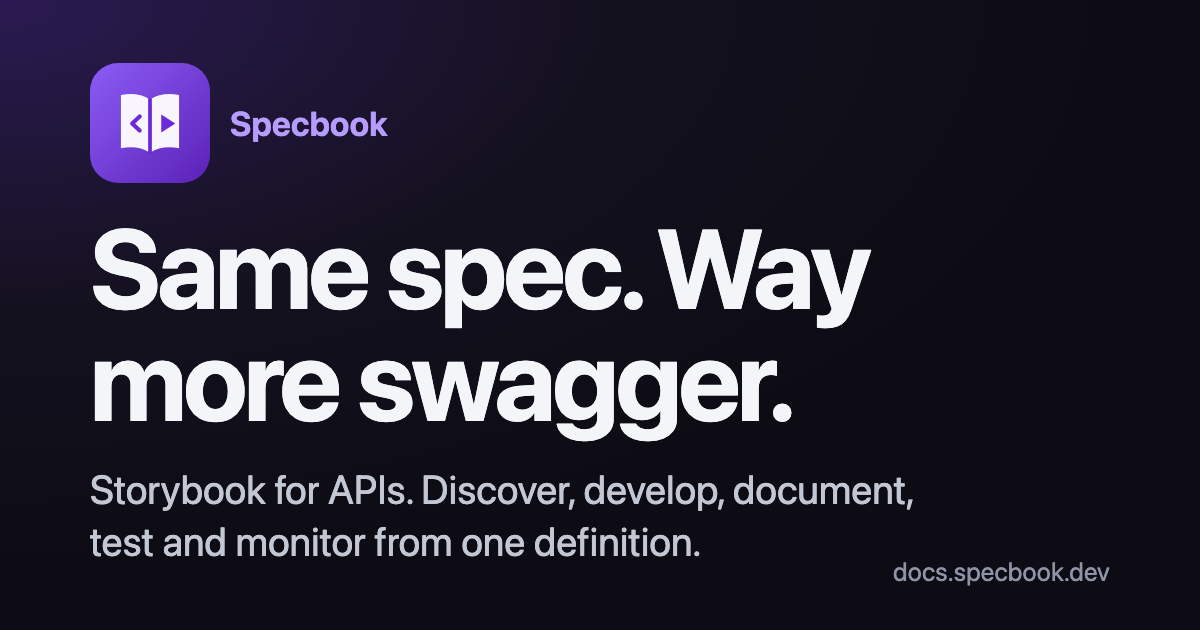
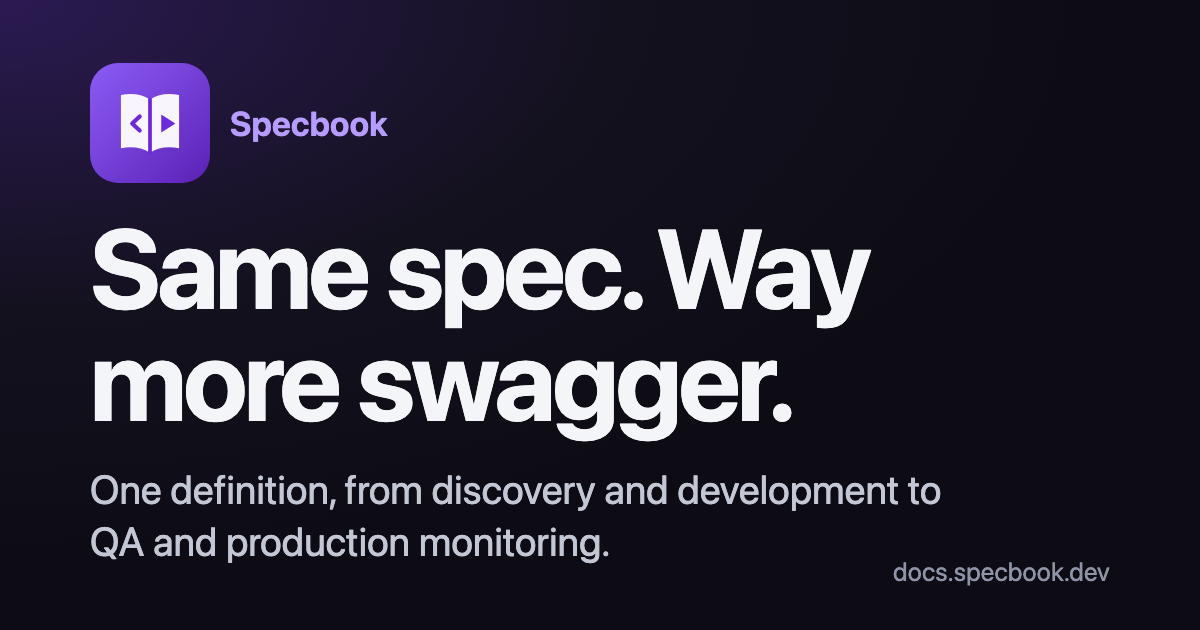
feat(docs): a new landing headline around the stages of an API, the demo on withMock, and dev mode with Preact islands

Changed region(s): [[0.0617, 0.754, 0.8017, 0.9048]]

diff --git a/apps/docs/src/components/Terminal.tsx b/apps/docs/src/components/Terminal.tsx
@@ -1,3 +1,4 @@
+/** @jsxImportSource preact */
 // A terminal on the page that runs the demo's requests and flows with the same runner and list reporter the CLI uses.
 // What it executes is the files the snippets show, loaded when Run is first pressed.
 

diff --git a/apps/docs/src/components/Replay.tsx b/apps/docs/src/components/Replay.tsx
@@ -1,3 +1,4 @@
+/** @jsxImportSource preact */
 // A recording of the real CLI, played back with its colors and (slowed a little) its timing. It is the same output the
 // terminal on the Test page produces, captured by `docs-demo capture`.
 
